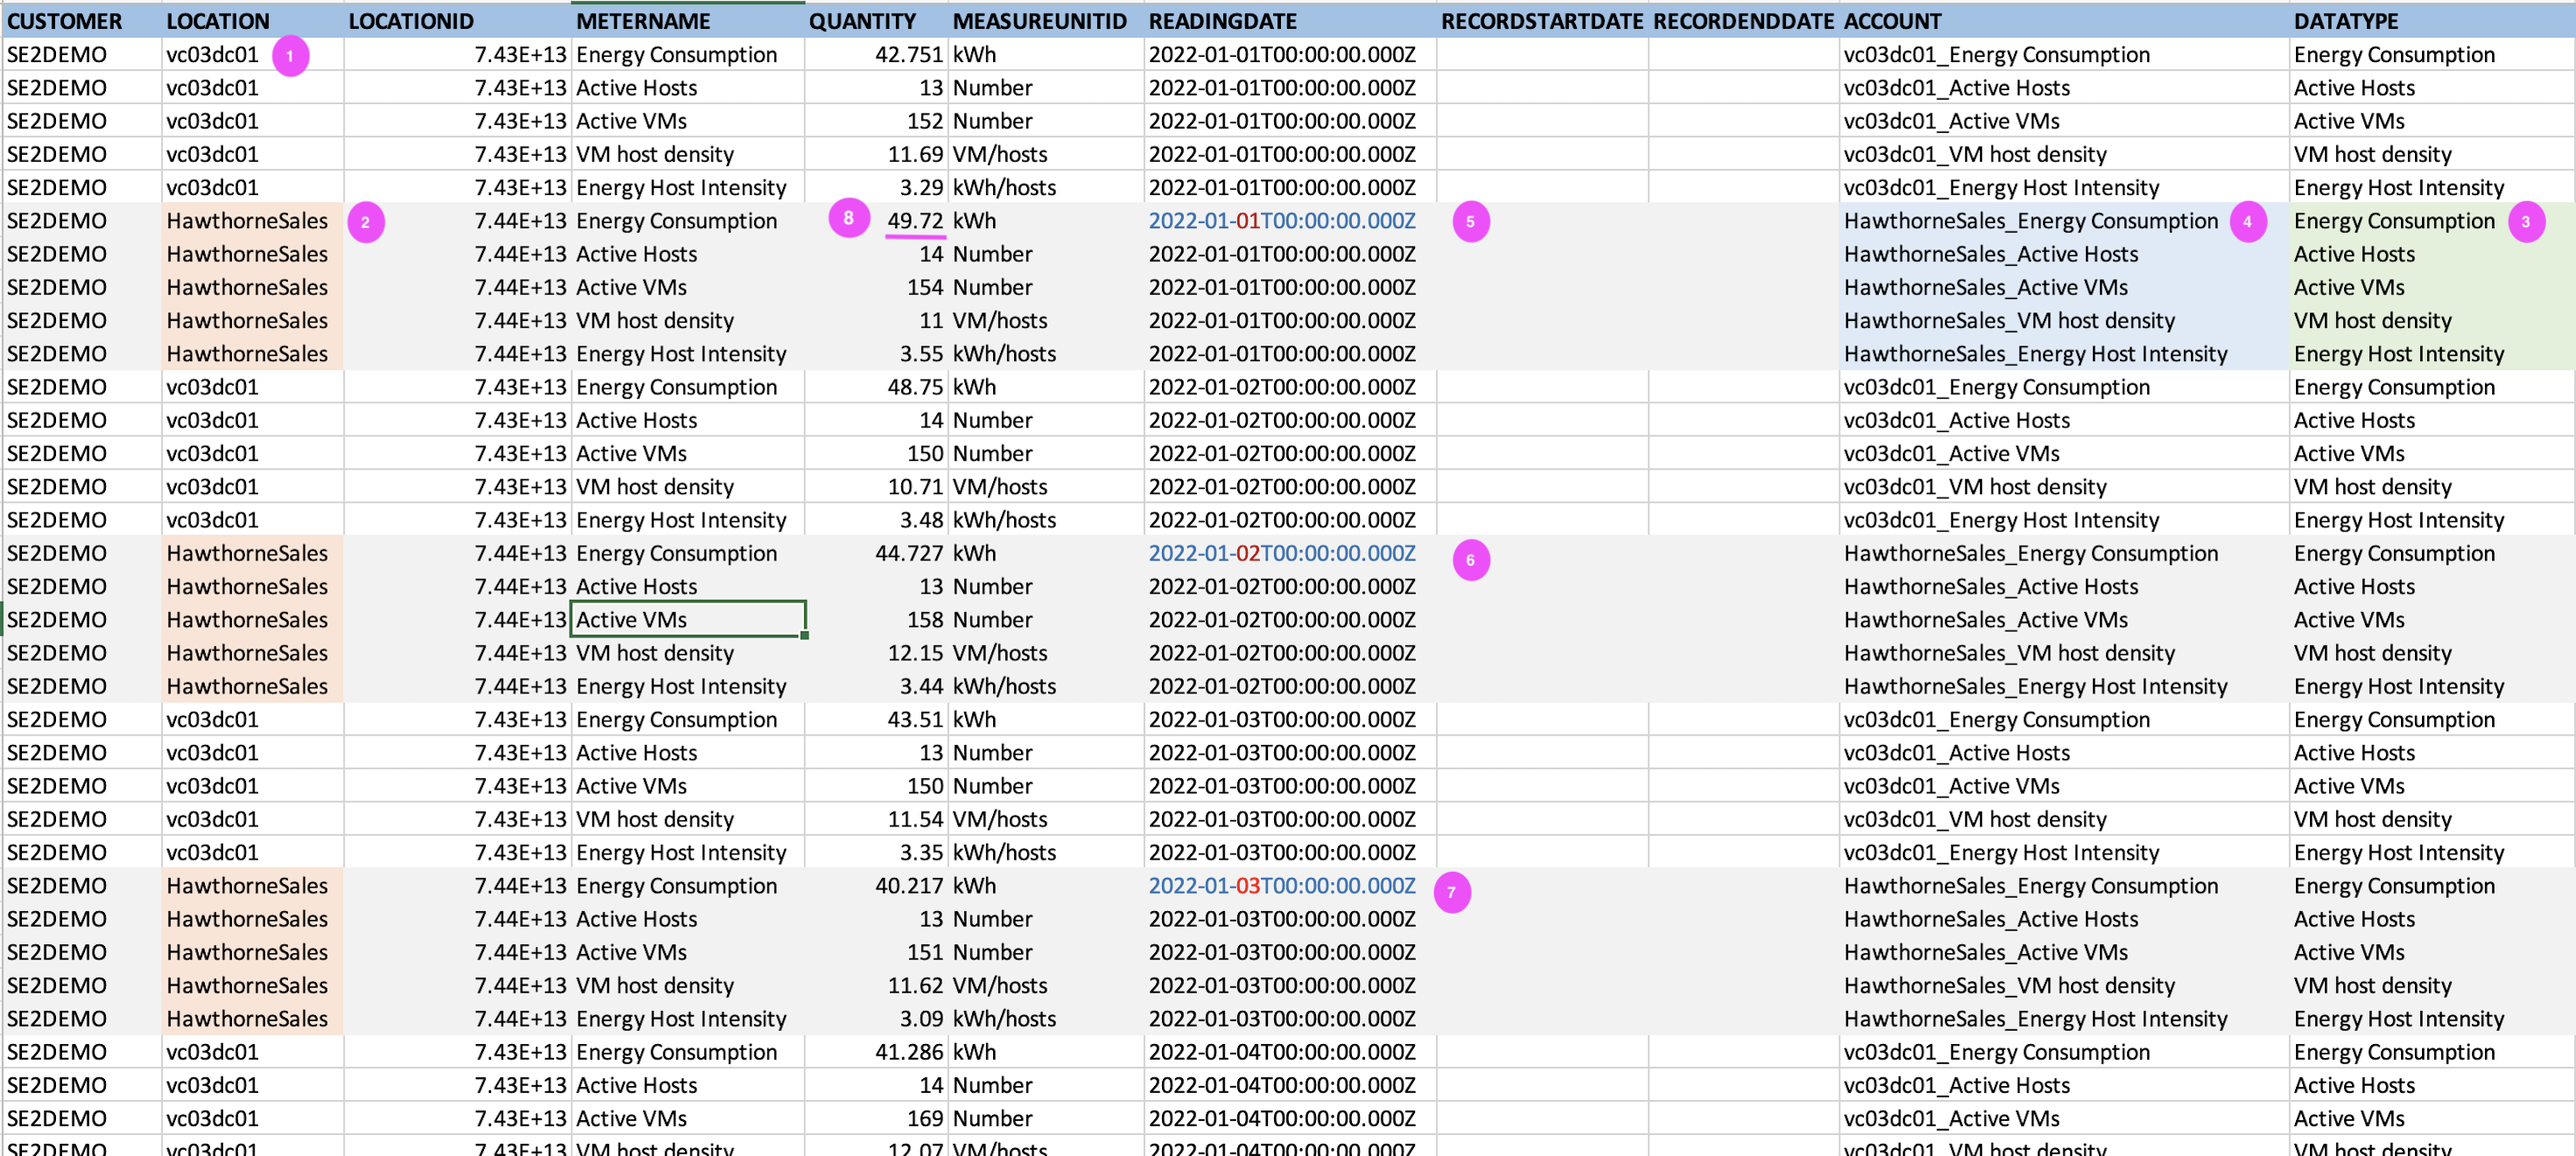
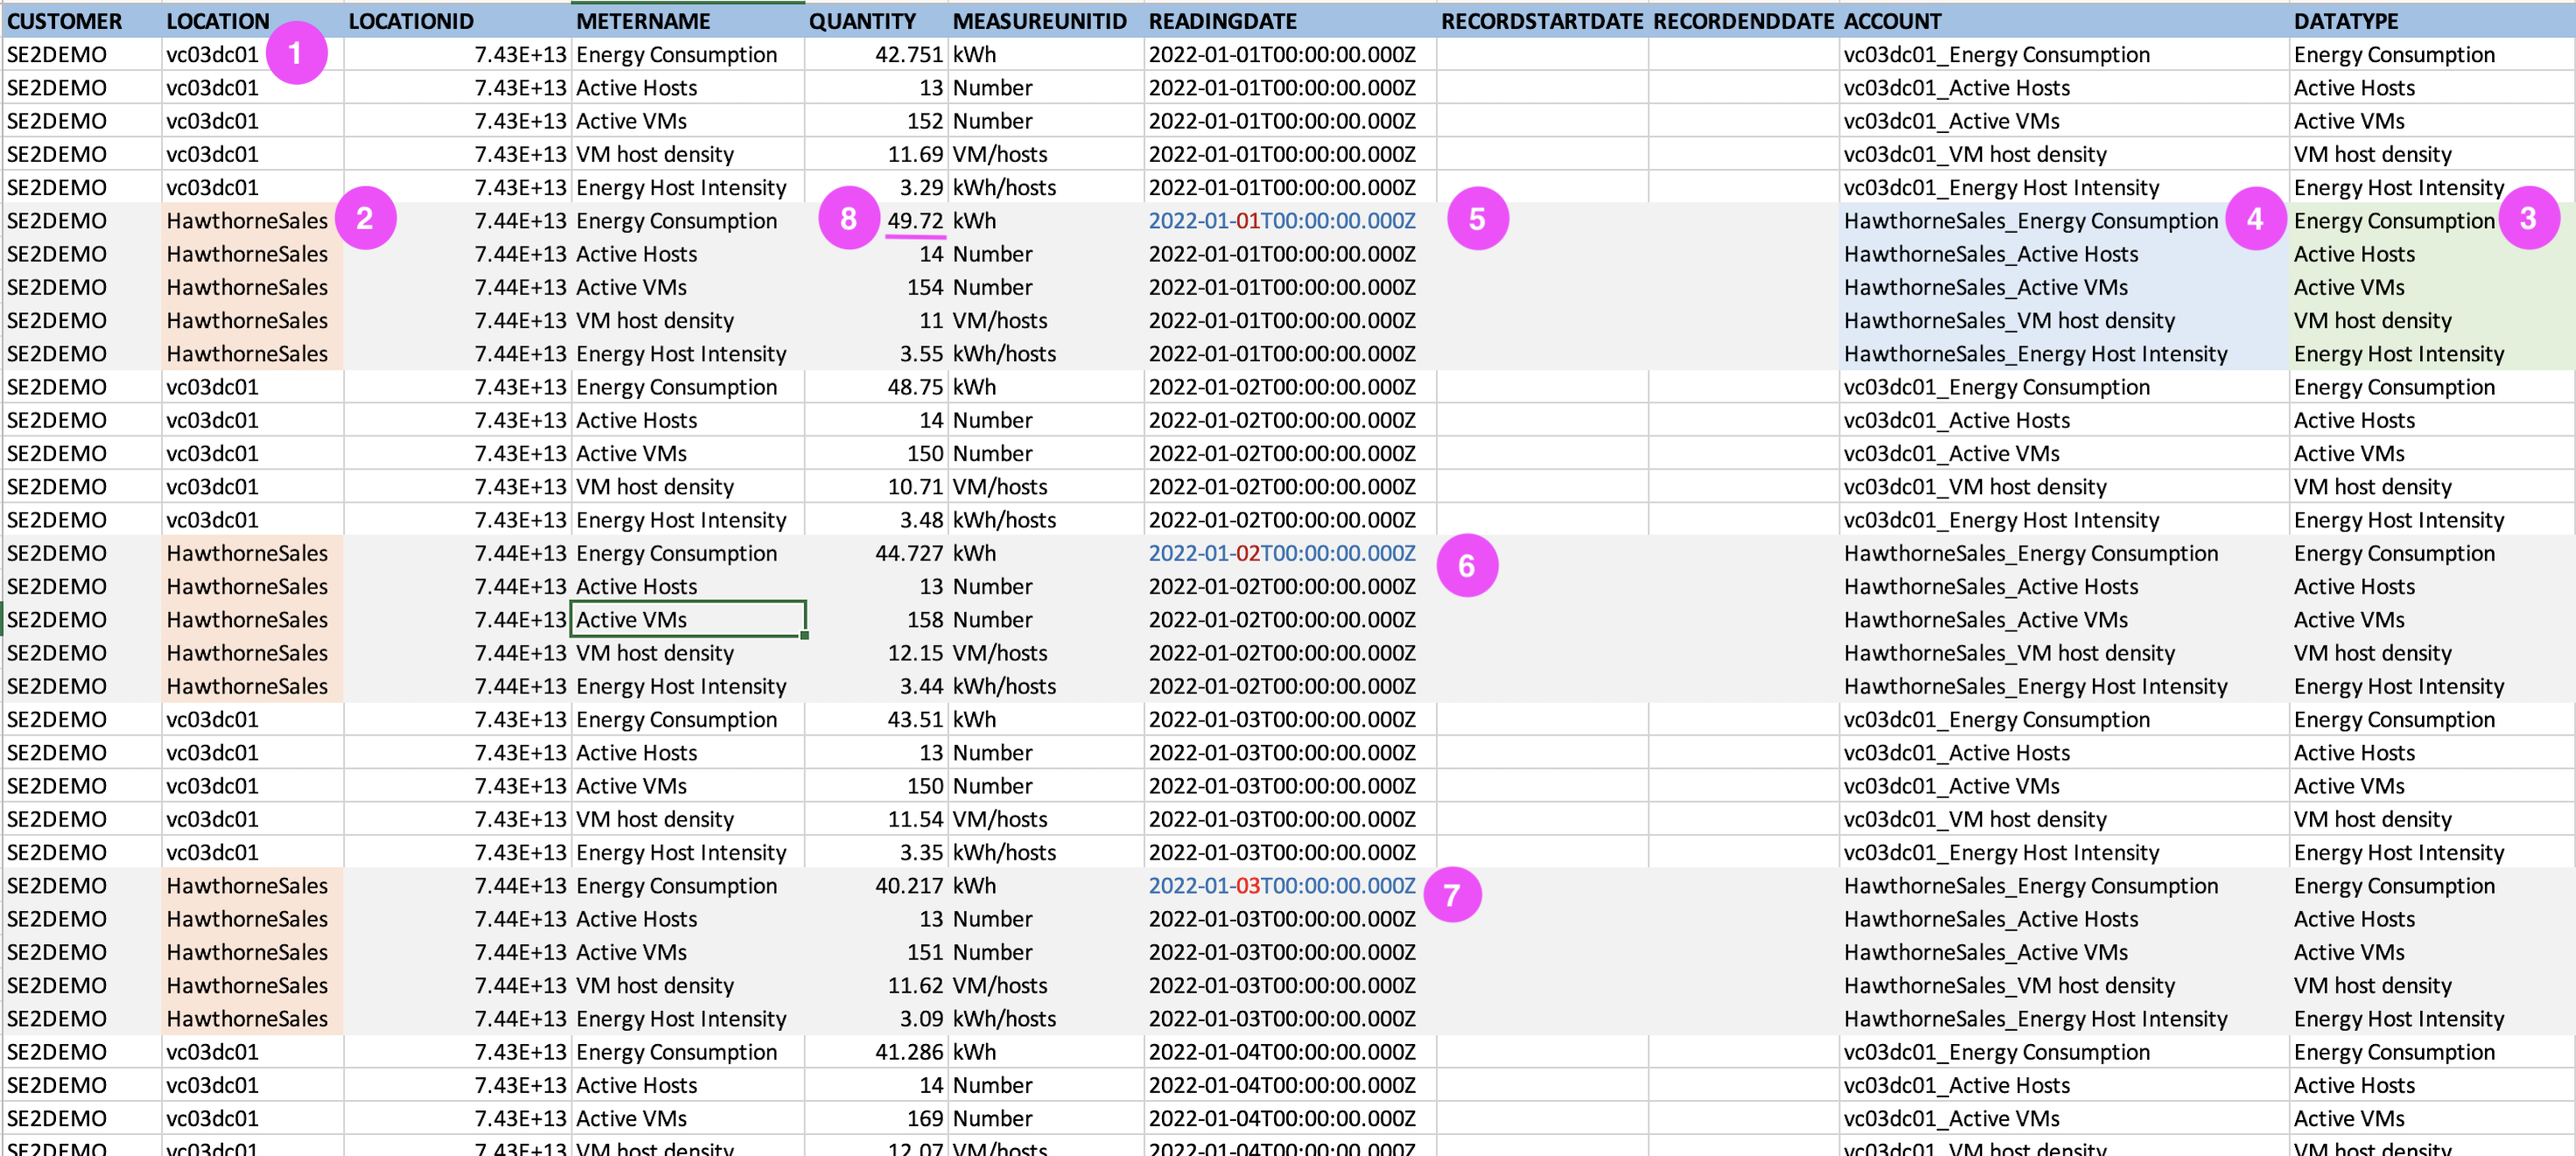
update

diff --git a/readme.md b/readme.md
@@ -315,16 +315,14 @@ The below image shows the details of the file.
 <img src="images2/01-Group-Location-Data.png">
 
 #### Sub Groups
-
 1. Shows the sub group called `Turbonomic`
 2. Shows the following subgroups
-
-**CLOUD-Region** : Represents `public cloud` group
-
-**ONPREM-DataCenter** : Represents `On-Prem` Data center group
+```
+CLOUD-Region : Represents `public cloud` group
+ONPREM-DataCenter : Represents `On-Prem` Data center group
+```
 
 #### Location
-
 3. Shows `aws` locations
 4. Shows `azure` locations
 5. Shows `on-prem` locations such as
@@ -379,11 +377,13 @@ HawthorneSales_Active VMs
 HawthorneSales_VM host density
 HawthorneSales_Energy Host Intensity
 ```
-
 #### Reading Date
 5. Shows data for `2022-01-01`
 6. Shows data for `2022-01-02`
 7. Shows data for `2022-01-03`
+
+#### Quantity
+8. Shows Energy Consumption value `49.72` kWh
 
 ### 7.4. Account in Org Hierarchy
 
